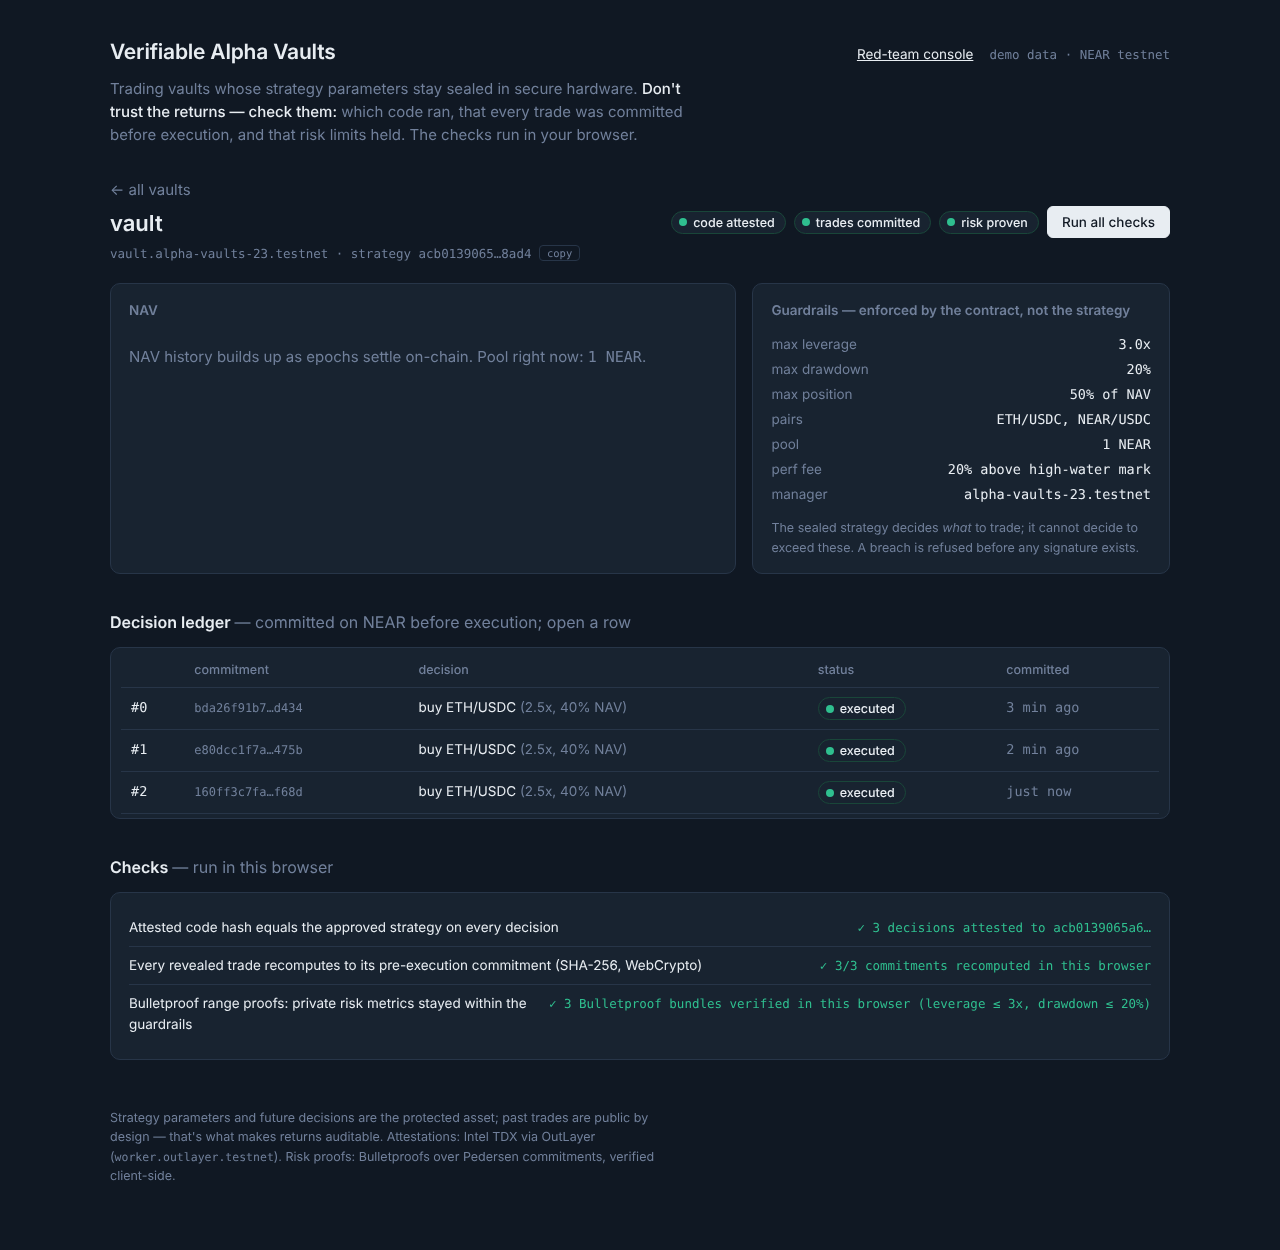
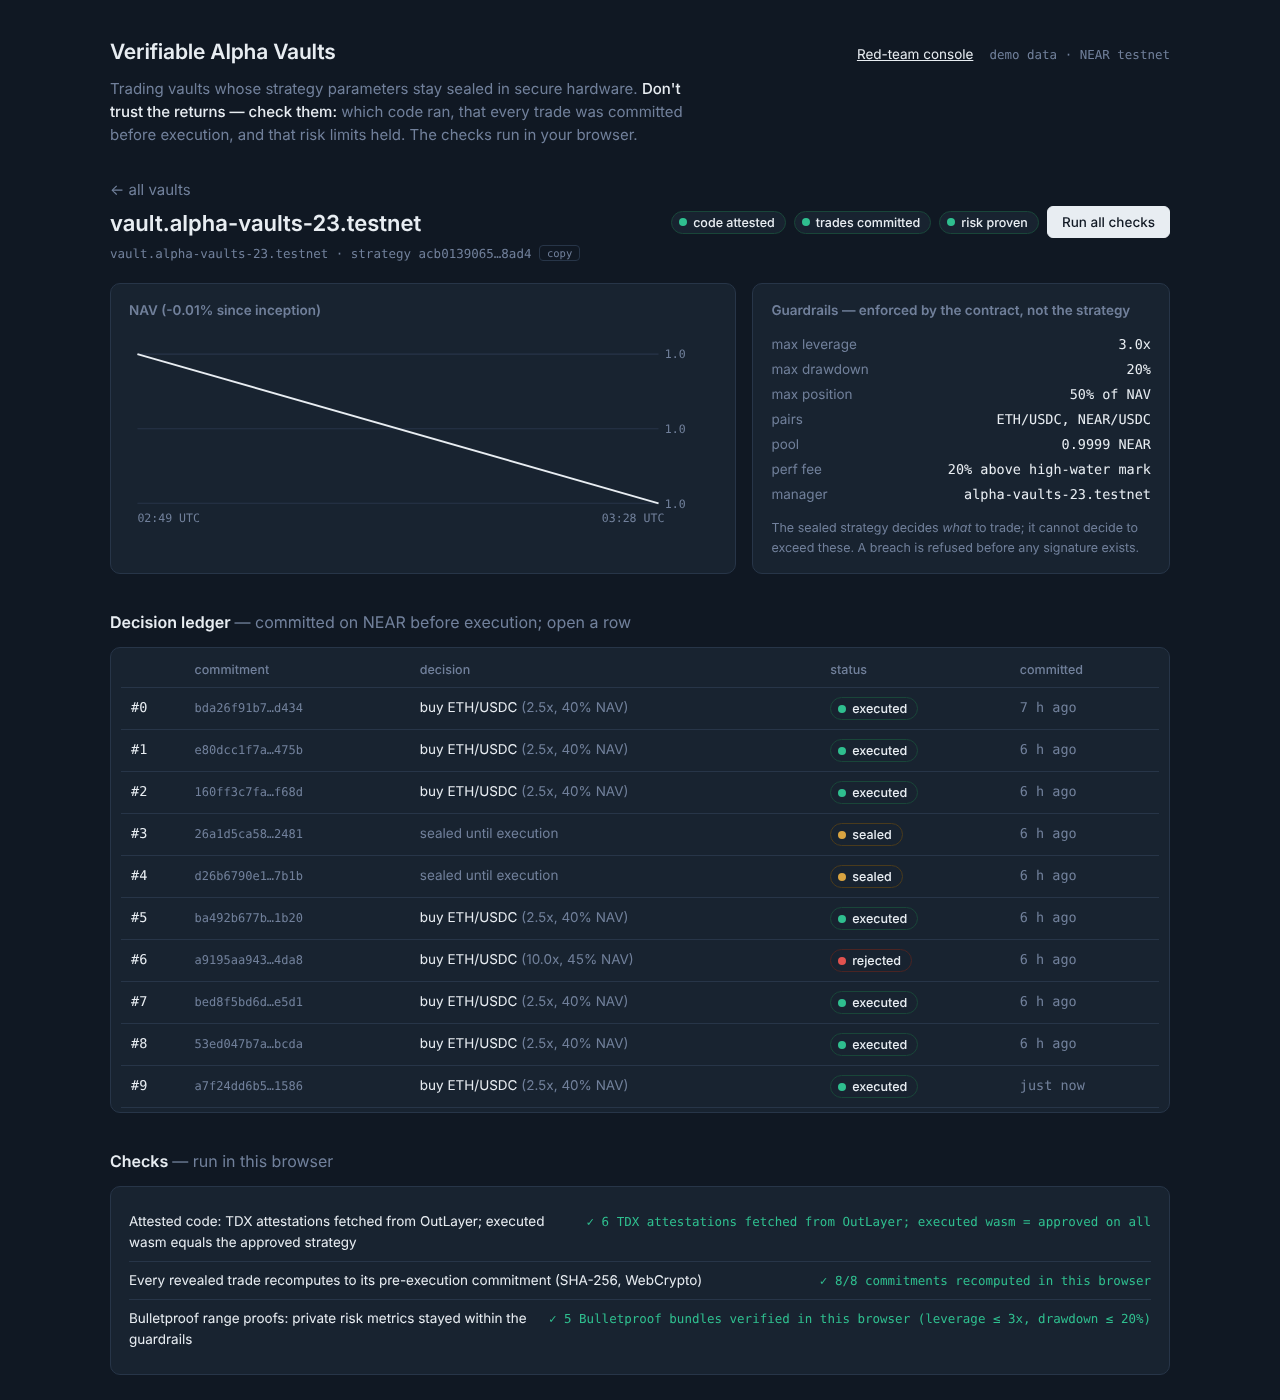
cfg(near) build fix, in-browser TDX attestation checks, live red-team evidence
Root-caused lost panic messages: near-sdk 5.30 gates host fns behind
--cfg near (what cargo-near sets); plain builds get pure-Rust fallbacks
(sha256 silently correct, panics become raw traps). Contract now built with
RUSTFLAGS=--cfg near everywhere (scripts, CI); redeployed; on-chain errors
read 'Smart contract panicked: …'. Code-attested badge now FETCHES the TDX
attestations from OutLayer's public CORS-open API and compares executed wasm
to approved. Live vault shown by default on the leaderboard. Live red-team
on-chain: #6 Rejected 10x breach; back-fill tx 9RZeAaK6… reverted with the
readable message, honest reveal then succeeded. unit-testing dev-dep gated
to non-wasm targets.

diff --git a/frontend/app.js b/frontend/app.js
@@ -11,7 +11,9 @@ const esc = (s) =>
   String(s).replace(/[&<>"]/g, (c) => ({ "&": "&amp;", "<": "&lt;", ">": "&gt;", '"': "&quot;" }[c]));
 
 const qs = new URLSearchParams(location.search);
-const LIVE_CONTRACT = qs.get("vault");
+// Live testnet vaults shown by default, alongside the demo vaults.
+const DEFAULT_LIVE_VAULTS = ["vault.alpha-vaults-23.testnet"];
+const LIVE_CONTRACTS = qs.get("vault") ? [qs.get("vault")] : DEFAULT_LIVE_VAULTS;
 const RPC_URL = qs.get("rpc") ?? undefined;
 
 let DATA = null;
@@ -27,12 +29,13 @@ async function loadData() {
     /* file:// or missing — handled below */
   }
   const data = { vaults: [...fixtures.vaults], cheats: fixtures.cheats, liveError: null };
-  if (LIVE_CONTRACT) {
+  for (const id of LIVE_CONTRACTS) {
     try {
-      const live = await new LiveVault(LIVE_CONTRACT, RPC_URL).load();
-      data.vaults.unshift(live);
+      data.vaults.unshift(await new LiveVault(id, RPC_URL).load());
+      const mode = document.getElementById("mode");
+      if (mode) mode.textContent = "live + demo · NEAR testnet";
     } catch (e) {
-      data.liveError = `couldn't reach ${LIVE_CONTRACT}: ${e.message}`;
+      data.liveError = `couldn't reach ${id}: ${e.message}`;
     }
   }
   DATA = data;
@@ -164,7 +167,7 @@ async function renderVault(id) {
           ${c.revealed ? `<div style="margin-top:6px"><span class="lbl">revealed decision</span>&nbsp; ${esc(c.revealed)} ${copyBtn(c.revealed)}</div>
           <div><span class="lbl">salt</span>&nbsp; ${c.salt_hex} ${copyBtn(c.salt_hex)}</div>` : ""}
           ${c.reject_reason ? `<div class="v-bad" style="margin-top:6px">refused by guardrails: ${esc(c.reject_reason)}</div>` : ""}
-          ${c.attestation_ref ? `<div style="margin-top:6px"><span class="lbl">attestation</span>&nbsp; ${esc(c.attestation_ref)} <span class="lbl">· wasm</span> ${short(c.wasm_hash)}</div>` : ""}
+          ${c.attestation_ref ? `<div style="margin-top:6px"><span class="lbl">attestation</span>&nbsp; ${c.attestation_ref.startsWith("https://") ? `<a href="${esc(c.attestation_ref)}" target="_blank" rel="noopener">${esc(c.attestation_ref)}</a>` : esc(c.attestation_ref)} <span class="lbl">· wasm</span> ${short(c.wasm_hash)}</div>` : ""}
           ${c.execution_ref ? `<div><span class="lbl">target-chain tx</span>&nbsp; ${esc(c.execution_ref)}</div>` : ""}
         </div>
         ${c.revealed ? `<button data-recompute="${c.id}">Recompute this hash</button><span class="check-line" id="recompute-${c.id}" role="status"></span>` : ""}
@@ -211,7 +214,7 @@ async function renderVault(id) {
     </div>
     <h2>Checks <span class="muted" style="font-weight:400">— run in this browser</span></h2>
     <div class="panel" id="check-log" aria-live="polite">
-      <div class="check-row"><span class="what">Attested code hash equals the approved strategy on every decision</span><span class="result muted" id="r-code">not run</span></div>
+      <div class="check-row"><span class="what">Attested code: TDX attestations fetched from OutLayer; executed wasm equals the approved strategy</span><span class="result muted" id="r-code">not run</span></div>
       <div class="check-row"><span class="what">Every revealed trade recomputes to its pre-execution commitment (SHA-256, WebCrypto)</span><span class="result muted" id="r-trades">not run</span></div>
       <div class="check-row"><span class="what">Bulletproof range proofs: private risk metrics stayed within the guardrails</span><span class="result muted" id="r-risk">not run</span></div>
     </div>`;
@@ -236,6 +239,7 @@ async function onRunChecks() {
     onRisk: (r) => { setChip("#b-risk", r.state, riskL(r)); setRes("#r-risk", r); },
     onTradeStep: (id) => { const el = $("#r-trades"); if (el) el.textContent = `recomputing #${id}…`; },
     onRiskStep: (ep) => { const el = $("#r-risk"); if (el) el.textContent = `verifying epoch ${ep}…`; },
+    onCodeStep: (id) => { const el = $("#r-code"); if (el) el.textContent = `fetching TDX attestation for #${id}…`; },
   });
 }
 

diff --git a/frontend/verify.js b/frontend/verify.js
@@ -46,16 +46,46 @@ export async function checkTradesCommitted(vault, onStep = () => {}) {
   return { state: "ok", detail: `${okCount}/${revealed.length} commitments recomputed in this browser` };
 }
 
-/** Badge 1: code hashes match the approved strategy. */
+/** Badge 1 (quick, sync): on-chain hash comparison for leaderboard chips. */
 export function checkCodeAttested(vault) {
   if (vault.integrity_alert) return { state: "bad", detail: vault.integrity_alert };
-  const mismatched = vault.commitments.filter((c) => c.wasm_hash !== vault.approved_wasm_hash);
+  const honored = vault.commitments.filter((c) => c.reject_reason == null || !c.reject_reason.includes("code hash"));
+  const mismatched = honored.filter((c) => c.wasm_hash !== vault.approved_wasm_hash);
   if (mismatched.length > 0)
     return { state: "bad", detail: `${mismatched.length} decisions attested to different code` };
   if (vault.commitments.length === 0) return { state: "wait", detail: "no attested decisions yet" };
   return {
     state: "ok",
     detail: `${vault.commitments.length} decisions attested to ${vault.approved_wasm_hash.slice(0, 12)}…`,
+  };
+}
+
+/** Badge 1 (deep): additionally FETCH the TDX attestations from OutLayer's
+ * public API and compare the executed wasm sha256 against the approved hash.
+ * Real third-party verification — the API is public and CORS-open. */
+export async function checkCodeAttestedDeep(vault, onStep = () => {}) {
+  const quick = checkCodeAttested(vault);
+  if (quick.state !== "ok") return quick;
+  const fetchable = vault.commitments.filter((c) => c.attestation_ref?.startsWith("https://")).slice(-6);
+  if (fetchable.length === 0)
+    return { ...quick, detail: quick.detail + " (no fetchable attestations — demo data)" };
+  let verified = 0;
+  for (const c of fetchable) {
+    onStep(c.id);
+    try {
+      const att = await (await fetch(c.attestation_ref)).json();
+      const executed = att.executed_wasm_sha256 ?? att.wasm_hash;
+      if (executed !== vault.approved_wasm_hash)
+        return { state: "bad", detail: `attestation for #${c.id}: executed wasm ${String(executed).slice(0, 12)}… ≠ approved` };
+      if (!att.tdx_quote) return { state: "bad", detail: `attestation for #${c.id} has no TDX quote` };
+      verified++;
+    } catch {
+      return { state: "wait", detail: `attestation for #${c.id} not reachable right now` };
+    }
+  }
+  return {
+    state: "ok",
+    detail: `${verified} TDX attestations fetched from OutLayer; executed wasm = approved on all`,
   };
 }
 
@@ -113,7 +143,7 @@ export async function checkRiskProven(vault, onStep = () => {}) {
 }
 
 export async function runAllChecks(vault, hooks = {}) {
-  const code = checkCodeAttested(vault);
+  const code = await checkCodeAttestedDeep(vault, hooks.onCodeStep);
   hooks.onCode?.(code);
   const trades = await checkTradesCommitted(vault, hooks.onTradeStep);
   hooks.onTrades?.(trades);

diff --git a/contracts/vault/src/lib.rs b/contracts/vault/src/lib.rs
@@ -320,8 +320,9 @@ impl Vault {
         let id = self.commitments.len() as u64;
 
         if wasm_hash != self.approved_wasm_hash {
-            // Cheat 3: someone swapped the strategy code. Refuse, pause
-            // deposits, raise the alert — the leaderboard badge goes red.
+            // Cheat 3: someone swapped the strategy code. Record the refusal
+            // (a panic would ROLL BACK the alert on-chain), pause deposits,
+            // raise the alert — the leaderboard badge goes red.
             self.integrity_alert = Some(format!(
                 "attested wasm {} != approved {}",
                 wasm_hash, self.approved_wasm_hash
@@ -331,7 +332,20 @@ impl Vault {
                 "integrity_alert",
                 serde_json::json!({"id": id, "attested": wasm_hash, "approved": self.approved_wasm_hash}),
             );
-            env::panic_str("attested code hash does not match approved strategy; deposits paused");
+            self.commitments.push(TradeCommitment {
+                id,
+                commitment,
+                wasm_hash,
+                attestation_ref,
+                committed_at_height: env::block_height(),
+                committed_at_ms: env::block_timestamp_ms(),
+                status: CommitmentStatus::Rejected,
+                revealed: None,
+                salt_hex: None,
+                reject_reason: Some("attested code hash does not match approved strategy; deposits paused".into()),
+                execution_ref: None,
+            });
+            return id;
         }
 
         self.commitments.push(TradeCommitment {
@@ -856,10 +870,10 @@ mod tests {
         ctx(executor(), 0);
         let evil_hash = "d".repeat(64);
         let d = decision_json("buy", 10_000, 100, "ETH/USDC");
-        let res = std::panic::catch_unwind(std::panic::AssertUnwindSafe(|| {
-            v.commit_decision(commit_of(&d, b"s"), evil_hash, "exec-3".into())
-        }));
-        assert!(res.is_err(), "commit with wrong code hash must abort");
+        // recorded as Rejected, NOT a panic: a panic would revert the alert on-chain
+        let id = v.commit_decision(commit_of(&d, b"s"), evil_hash, "exec-3".into());
+        let c = v.get_commitment(id).unwrap();
+        assert_eq!(c.status, CommitmentStatus::Rejected);
         assert!(v.deposits_paused);
         assert!(v.integrity_alert.is_some());
         // and new deposits are now refused

diff --git a/contracts/vault/tests/pipeline.rs b/contracts/vault/tests/pipeline.rs
@@ -142,13 +142,18 @@ fn full_pipeline_backfilled_winner_is_caught() {
 }
 
 #[test]
-#[should_panic(expected = "does not match approved strategy")]
 fn full_pipeline_swapped_code_is_detected() {
     let mut v = vault();
     let params = Params { fast: 3, slow: 8, threshold_bps: 50, size_bps: 4_000, leverage_bps: 25_000 };
     let out = run(&params, &market_input(), [42u8; 32]);
     ctx("executor.testnet", 0);
-    // attestation says different code ran
+    // attestation says different code ran: recorded as Rejected (not a panic,
+    // which would revert the alert on-chain) and deposits pause
     let other_hash = "ab".repeat(32);
-    v.commit_decision(out.commitment, other_hash, "outlayer-exec-4".into());
+    let id = v.commit_decision(out.commitment, other_hash, "outlayer-exec-4".into());
+    assert_eq!(v.get_commitment(id).unwrap().status, CommitmentStatus::Rejected);
+    assert!(v.deposits_paused);
+    ctx("alice.testnet", 1_000);
+    let res = std::panic::catch_unwind(std::panic::AssertUnwindSafe(|| v.deposit()));
+    assert!(res.is_err(), "deposits must be paused");
 }

diff --git a/docs/DEPLOYMENT.md b/docs/DEPLOYMENT.md
@@ -27,3 +27,25 @@ cd executor && node run.mjs --enclave outlayer --vault near
 - First live trade: commitment #5 on NEAR → MPC signature from `v1.signer-prod.testnet` → [Sepolia tx `0x25d727…bd4a`](https://sepolia.etherscan.io/tx/0x25d727ebe6836e9ab6b887af8b6727ebb30aca6586484d29ef84c8aedb59bd4a) carrying the commitment hash in calldata → execution ref recorded back on the vault.
 - The chain of custody is fully public: NEAR commitment (pre-execution) ↔ Sepolia calldata ↔ reveal + attestation.
 - Note: commitments #3/#4 remain `Committed` (sealed) — artifacts of executor-crash runs; their decisions were never revealed, which the ledger displays honestly.
+
+## Red-team, live on-chain (Thu 12 Nov, ~04:20 ET)
+
+All three cheats were attempted for real against `vault.alpha-vaults-23.testnet`:
+
+| Cheat | On-chain result |
+|---|---|
+| 10x leverage under the 3x cap | commitment #6: `Rejected — leverage 100000bps exceeds max 30000bps` (permanent ledger entry) |
+| Back-fill a winning trade | tx [`9RZeAaK6hzuATMga9qrWQFsukkCqZ9DWeXKWcRKyuNS3`](https://testnet.nearblocks.io/txns/9RZeAaK6hzuATMga9qrWQFsukkCqZ9DWeXKWcRKyuNS3): `Smart contract panicked: reveal does not match commitment: this trade was not committed when claimed` — the honest reveal of the same commitment then succeeded |
+| Swapped strategy code | recorded as `Rejected` + integrity alert + deposits paused (unit + pipeline tested; not run against the live vault to keep it depositable) |
+
+## Build note: `--cfg near` (important)
+
+near-sdk 5.30 compiles its host functions only under `--cfg near`
+(what `cargo near build` sets). A plain cargo wasm build silently gets
+pure-Rust fallbacks: sha256 still computes correctly, but every panic
+becomes a raw `unreachable` trap and messages are lost. We build with
+`RUSTFLAGS="--cfg near"` (see scripts/build-wasm.sh); found the hard way,
+fixed, and verified: on-chain errors now read `Smart contract panicked: …`.
+
+Known ledger artifacts kept honestly: #3/#4 forever `Committed` (sealed) from
+executor-crash runs; #6 the rejected 10x breach; #7–#8 red-team targets.
